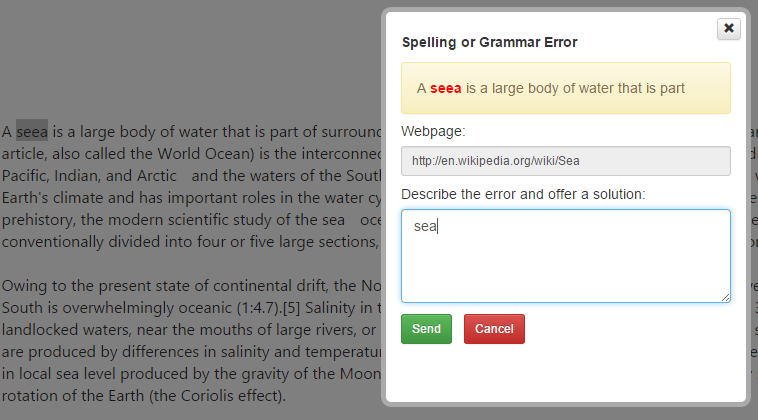
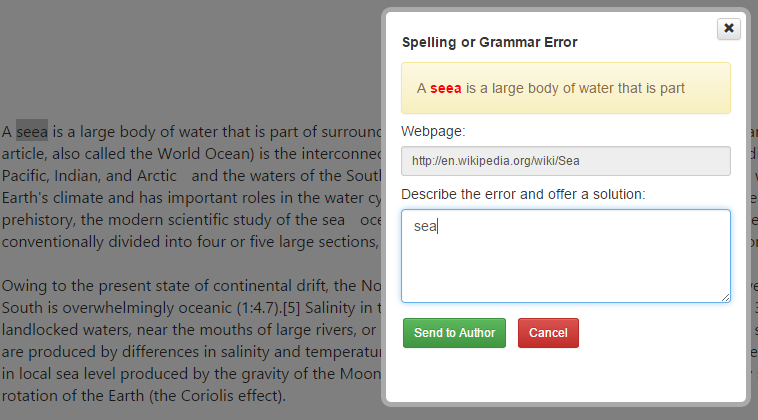
Version 1.0

Changed region(s): [[0.5158, 0.7429, 0.7889, 0.8357]]

diff --git a/gourlspelling.js b/gourlspelling.js
@@ -3,7 +3,7 @@
  *
  * @link https://gourl.io/php-spelling-notifications.html
  * @version 1.0
- * @license GPLv3 or later
+ * @license GPLv2
  */
 
 var spl_scripts = document.getElementsByTagName('script'),
@@ -64,3 +64,4 @@ function spl_call() {
     var t = spl_get_sel_text();
     t.selected_text.length > 400 ? alert("Please select no more than 400 characters!") : 0 == t.selected_text.length ? alert("Please select the spelling error!") : (spl = spl_get_sel_context(t), spl_show_win())
 }
+    

diff --git a/gourlspelling.css b/gourlspelling.css
@@ -3,7 +3,7 @@
  *
  * @link https://gourl.io/php-spelling-notifications.html
  * @version 1.0
- * @license GPLv3 or later
+ * @license GPLv2
  */
 
 #splwin {
@@ -41,4 +41,4 @@ height:380px;
 * html #splwin #splframe {
 margin-top:7px;
 }
-    
+   

diff --git a/gourlspelling.php b/gourlspelling.php
@@ -4,16 +4,16 @@
  *
  * @link https://gourl.io/php-spelling-notifications.html
  * @version 1.0
- * @license GPLv3 or later
+ * @license GPLv2
  */
 
 
-// Place your emails in two variables below ($from_email - From: and $to_email - To:)
+// Place your emails in two variables below
 // --------------------------
 
-$from_email = 'server@'.$_SERVER["SERVER_NAME"];
-$to_email = 'webmaster@'.$_SERVER["SERVER_NAME"];
-
+$from_email 	= ''; 				// place your email; field From:
+$to_email 		= ''; 				// place your email; field To:
+$send_button 	= 'Send to Author';	// you can change 'send' button text; 'Send', 'Send to Webmaster', etc
 
 
 
@@ -28,6 +28,9 @@ if(isset($_POST['submit']) && $_POST['submit'])
 	$spl 	 = substr(trim($_POST['spl']), 0, 2000);
 	$comment = htmlspecialchars(substr(trim($_POST['comment']), 0, 20000));
 	$agent	 = htmlspecialchars(trim($_SERVER['HTTP_USER_AGENT']));
+	if (!$from_email) $from_email = 'server@'.$_SERVER["SERVER_NAME"];
+	if (!$to_email)   $to_email = 'webmaster@'.$_SERVER["SERVER_NAME"];
+	
 					   
 	$txt = '<html>
 			<head>
@@ -53,7 +56,7 @@ if(isset($_POST['submit']) && $_POST['submit'])
 	$from .= "X-Sender: < $from_email >\n";
 	$from .= "Content-Type: text/html; charset=utf-8\n";
 		   
-	mail($to_email, $title, $txt, $from);
+	$result = mail($to_email, $title, $txt, $from);
 	
 }
 
@@ -66,7 +69,7 @@ if(isset($_POST['submit']) && $_POST['submit'])
 	<link href="//maxcdn.bootstrapcdn.com/bootstrap/3.3.2/css/bootstrap.min.css" rel="stylesheet">
 	<link href="//maxcdn.bootstrapcdn.com/bootstrap/3.3.2/css/bootstrap-theme.min.css" rel="stylesheet">
 	<script> 
-	var p=top;function loaddata(){null!=p&&(document.forms.splwin.url.value=p.splloc);null!=p&&(document.forms.splwin.spl.value=p.spl);if("undefined"==typeof p.spl || "undefined"==typeof p.splloc) {document.getElementById("submit").disabled = true;document.getElementById("cancel").disabled = true;}}function hide(){var a=p.document.getElementById("splwin");a.parentNode.removeChild(a)};
+	var p=top;function loaddata(){null!=p&&(document.forms.splwin.url.value=p.splloc);null!=p&&(document.forms.splwin.spl.value=p.spl);if("undefined"==typeof p.spl || "undefined"==typeof p.splloc) {document.getElementById("submit").disabled = true;document.getElementById("cancel").disabled = true;}}function hide(){var a=p.document.getElementById("splwin");a.parentNode.removeChild(a)};window.onkeydown=function(event){if(event.keyCode===27){hide()}};
 	</script>
 	<style>#m strong{color:red}.container{margin-top:20px}</style>
 	</head>
@@ -78,16 +81,23 @@ if(isset($_POST['submit']) && $_POST['submit'])
 			<?php if(isset($_POST['submit']) && $_POST['submit']) : ?>
 			
 				<br><br>
-				<div class="alert alert-success" role="alert"><span class="glyphicon glyphicon-ok"></span>
-					Thank you! Your message has been successfully sent, we highly appreciate your support!
-				</div>
-				<br><br>
-				<div style="text-align:center"><a href="https://gourl.io/php-spelling-notifications.html" target="_blank" title="">GoUrl Spelling Notifications &#187;</a></div>
-				<br><br><br>
-				<div style="text-align:center"><input class="btn btn-danger btn-sm" onclick="hide()" type="button" value="Close Window" id="cancel" name="cancel"></div>
+				
+				<?php if($result) : ?>
+					<div class="alert alert-success" role="alert"><span class="glyphicon glyphicon-ok"></span>
+						&#160;Thank you! Your message has been successfully sent, we highly appreciate your support!
+					</div>
+				<?php else : ?>
+					<br>
+					<div class="alert alert-danger" role="alert"><span class="glyphicon glyphicon-remove-sign"></span>
+						&#160;Error! Message not sent, Please try again!
+					</div>
+				<?php endif; ?>
+					
+				<br><br><div style="text-align:center; margin-left:-50px"><a target="_blank" href="https://gourl.io/php-spelling-notifications.html"><img alt='GoUrl Spelling Notifications' title='GoUrl Spelling Notifications' src='gourlspelling2.png'></a><a href="https://gourl.io/php-spelling-notifications.html" target="_blank" title="">GoUrl Spelling Notifications &#187;</a></div>
+				<br><br><br><div style="text-align:center"><input class="btn btn-danger btn-sm" onclick="hide()" type="button" value="Close Window" id="cancel" name="cancel"></div>
 
 			<?php else : ?>
-			
+	
 				<form method="post" action="<?php echo htmlentities($_SERVER['PHP_SELF']); ?>" name="splwin">
 					<div id="m" class="alert alert-warning" style="margin-bottom:7px;"><script>document.write(p.spl);</script></div>
 					<input class="form-control" type="hidden" id="spl" name="spl">
@@ -96,10 +106,10 @@ if(isset($_POST['submit']) && $_POST['submit'])
 					<label style="font-weight:lighter;margin-top:8px;">Describe the error and offer a solution:</label>
 					<textarea class="form-control" style="margin-bottom:11px;" id="comment" rows="4" name="comment" required="required" autofocus="autofocus"></textarea>
 					<div style="position:absolute;right:20px;bottom:5px;width:60px"><a target="_blank" href="https://gourl.io/php-spelling-notifications.html"><img alt='GoUrl Spelling Notifications' title='GoUrl Spelling Notifications' src='gourlspelling2.png'></a></div>
-					<input class="btn btn-success btn-sm" type="submit" value="Send" id='submit' name="submit"> &#160;
+					<input class="btn btn-success btn-sm" type="submit" value="<?php echo htmlentities($send_button); ?>" id='submit' name="submit"> &#160;
 					<input class="btn btn-danger btn-sm" onclick="hide()" type="button" value="Cancel" id="cancel" name="cancel">
 				</form>
-			
+	
 			<?php endif; ?>
 		</div>
 	</body>

diff --git a/readme.md b/readme.md
@@ -21,7 +21,7 @@ Nice and simple php script - no external websites needed!
 
 ## License
 
-GoUrl Spelling Notifications is released under the GPL v3 (or later) license
+GoUrl Spelling Notifications is released under the GPLv2 license
 
 
 ## Requirements
@@ -47,5 +47,5 @@ GoUrl Spelling Notifications is released under the GPL v3 (or later) license
 
 
 See [https://gourl.io/php-spelling-notifications.html](https://gourl.io/php-spelling-notifications.html)
-
+  
    
